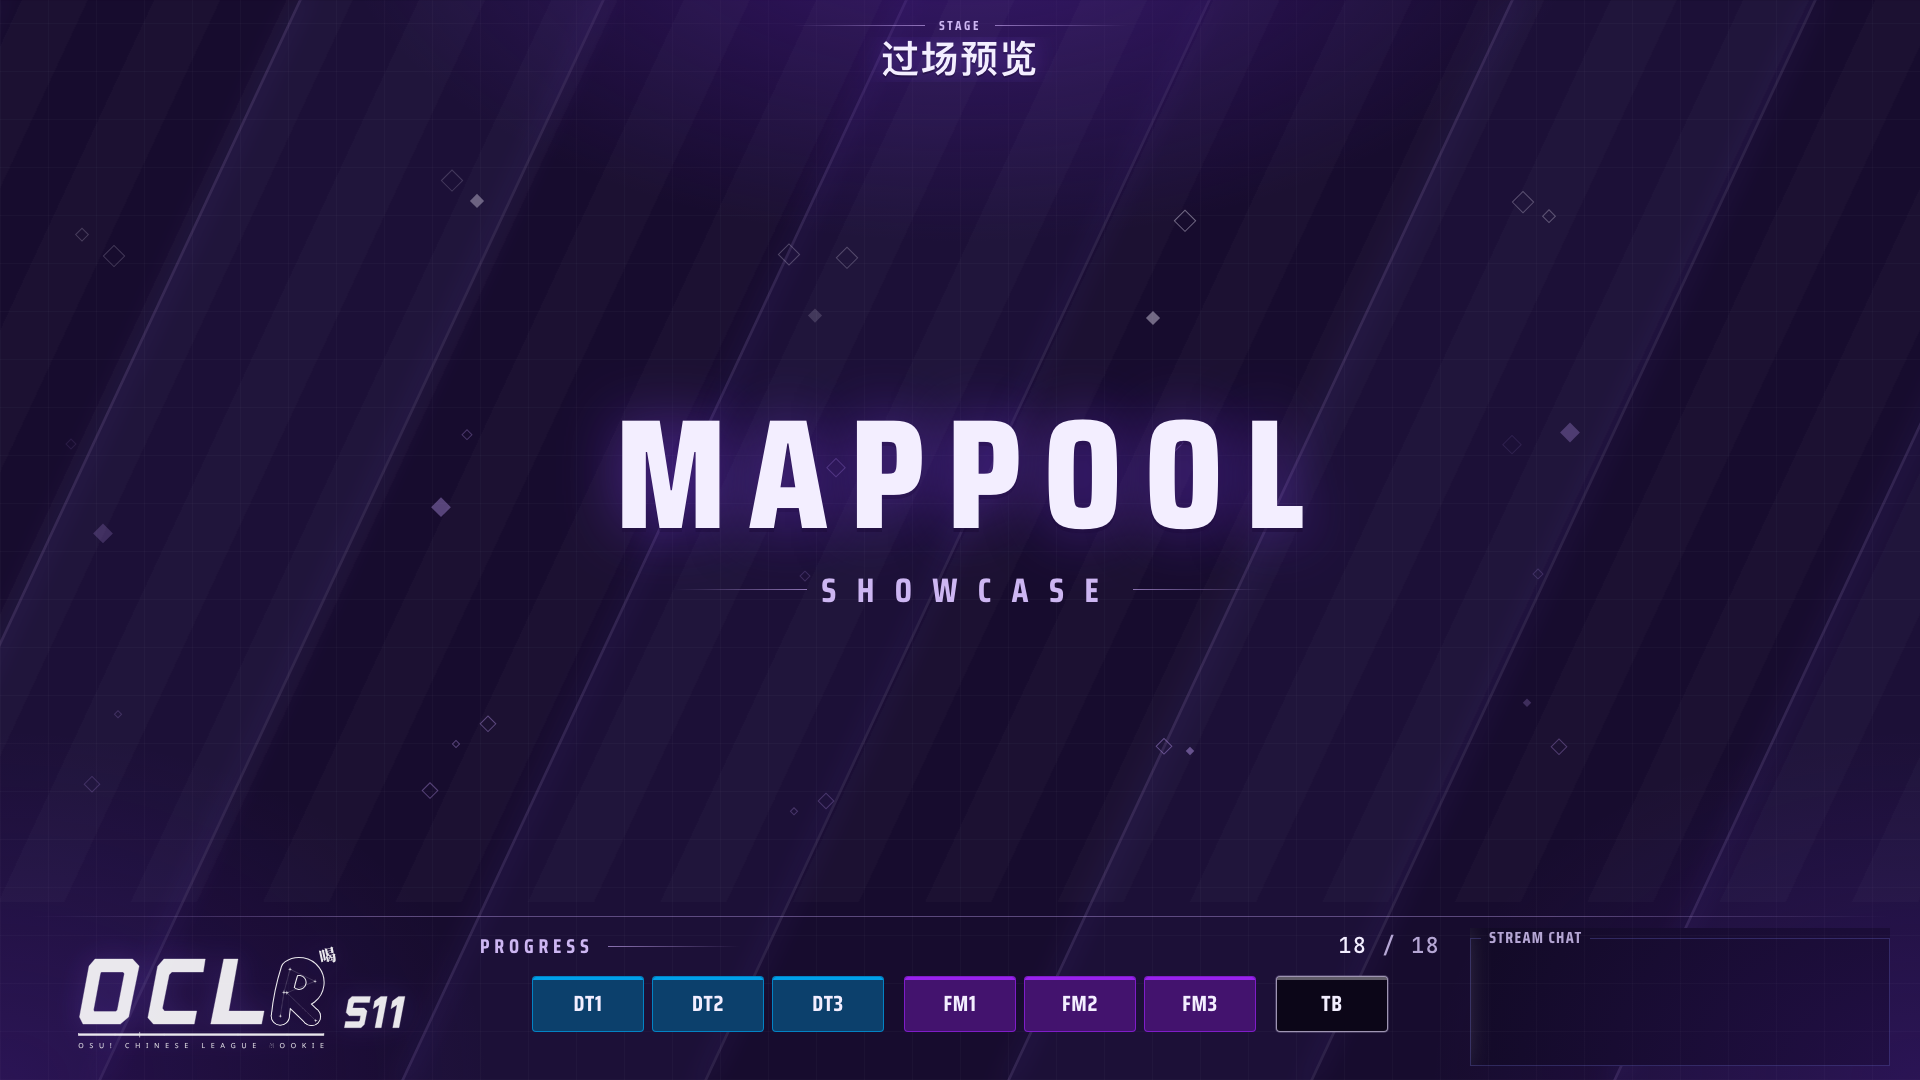
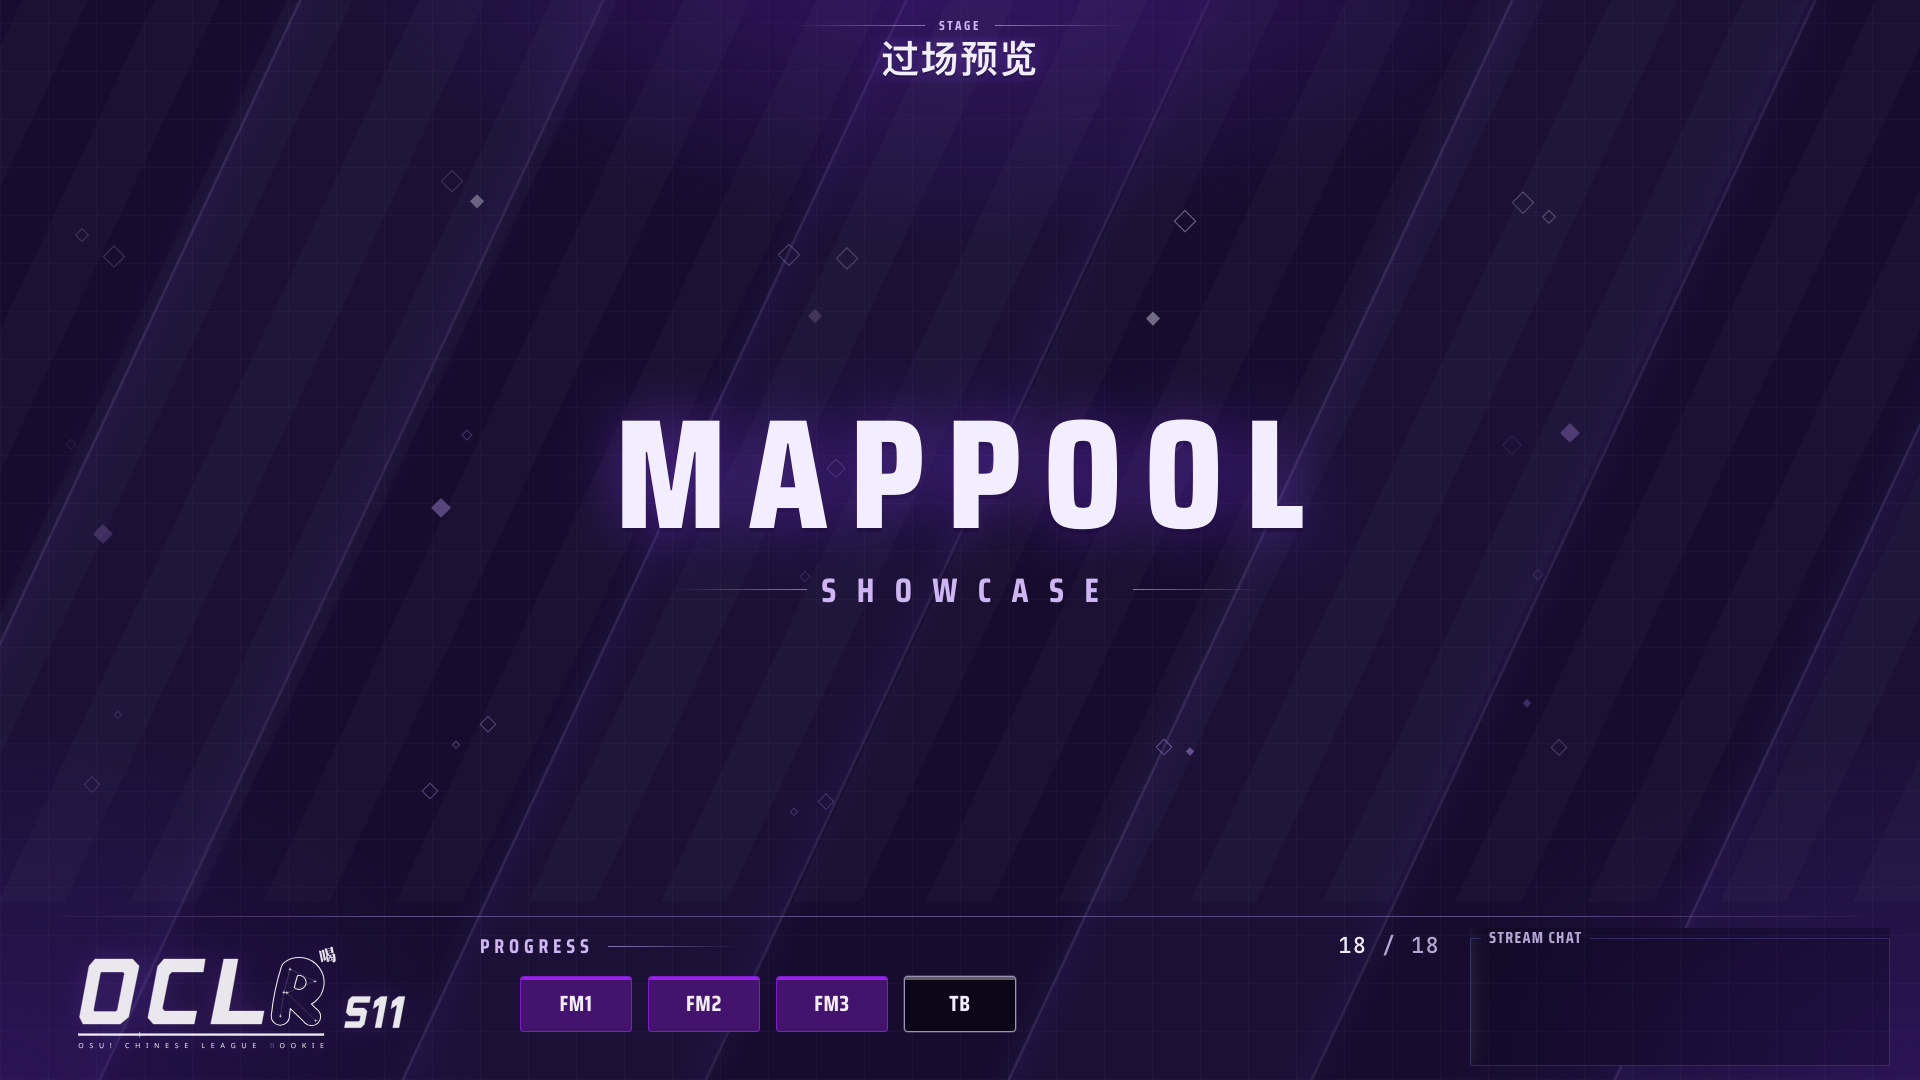
showcase: Keep current progress slot fixed in the centre

Changed region(s): [[0.25, 0.8861, 0.7188, 0.9778]]

diff --git a/ui/components/ShowcaseCover.vue b/ui/components/ShowcaseCover.vue
@@ -80,16 +80,13 @@ const diamonds = Array.from({ length: 34 }, (_, index) => {
 
 const shownSet = computed(() => new Set(props.shown));
 const progressId = computed(() => props.next?.id ?? props.currentId ?? props.shown.at(-1) ?? null);
+const progressIndex = computed(() => Math.max(0, props.pool.findIndex(entry => entry.id === progressId.value)));
 const visiblePool = computed(() => progressWindow(props.pool, progressId.value));
 const groups = computed(() => progressGroups(visiblePool.value, shownSet.value, props.next?.id ?? null));
 const doneCount = computed(() => props.pool.filter(entry => shownSet.value.has(entry.id)).length);
 // Centre footer only (x 480–1440); the existing Stream Chat stays on the right.
-const chipWidth = computed(() => {
-  const count = visiblePool.value.length;
-  if (!count) return 0;
-  const gaps = (count - 1) * 8 + (groups.value.length - 1) * 12;
-  return Math.min(112, Math.floor((960 - gaps) / count));
-});
+const chipWidth = 112;
+const progressColumn = (id: string) => props.pool.findIndex(entry => entry.id === id) - progressIndex.value + 4;
 const pad = (value: number) => String(value).padStart(2, '0');
 
 const artLoaded = ref(false);
@@ -100,7 +97,7 @@ const hasArt = computed(() => !!props.artworkUrl && !artFailed.value);
 const rootStyle = computed(() => ({
   '--cover-slow': props.seek ? 1 : props.slow,
   '--cover-seek': `${props.seek?.ms ?? 0}ms`,
-  '--chip-w': `${chipWidth.value}px`,
+  '--chip-w': `${chipWidth}px`,
 }));
 
 onMounted(() => {
@@ -113,7 +110,7 @@ onUnmounted(() => { clearTimeout(timer); media?.removeEventListener('change', on
 
 <template>
   <div class="showcase-cover" :data-stage="shownStage"
-    :class="{ 'is-instant': instantNow && !seek, 'is-reduced': reducedMotion, 'is-seeking': !!seek, 'is-compact-chips': chipWidth < 60 }"
+    :class="{ 'is-instant': instantNow && !seek, 'is-reduced': reducedMotion, 'is-seeking': !!seek }"
     :style="rootStyle" :aria-hidden="shownStage === 'hidden' ? 'true' : undefined" aria-label="换图过场">
     <div class="cover-base"></div>
     <div class="cover-bands">
@@ -156,7 +153,7 @@ onUnmounted(() => { clearTimeout(timer); media?.removeEventListener('change', on
             <ol class="cover-progress-group">
               <li v-for="chip in group.chips" :key="chip.entry.id" class="cover-chip" :data-state="chip.state" :data-mod="chip.entry.mod"
                 :data-current="chip.entry.id === progressId || undefined" :aria-current="chip.entry.id === progressId ? 'step' : undefined"
-                :style="modColorStyle(chip.entry.mod)" :title="chip.entry.label">{{ chip.entry.label }}</li>
+                :style="{ ...modColorStyle(chip.entry.mod), gridColumn: progressColumn(chip.entry.id) }" :title="chip.entry.label">{{ chip.entry.label }}</li>
             </ol>
           </li>
         </ol>

diff --git a/ui/showcase-cover.css b/ui/showcase-cover.css
@@ -124,9 +124,9 @@
 .cover-progress > header { display: flex; align-items: center; justify-content: space-between; }
 .cover-progress > header b { color: var(--muted); font: 500 22px/1 var(--mono); letter-spacing: .06em; font-variant-numeric: tabular-nums; }
 .cover-progress > header em { color: var(--ink); font-style: normal; }
-.cover-progress-track, .cover-progress-group { display: flex; margin: 0; padding: 0; list-style: none; }
-.cover-progress-track { justify-content: center; gap: 20px; }
-.cover-progress-group { gap: 8px; }
+.cover-progress-track, .cover-progress-group { margin: 0; padding: 0; list-style: none; }
+.cover-progress-track { display: grid; grid-template-columns: repeat(7, var(--chip-w)); justify-content: center; gap: 16px; }
+.cover-progress-track > li, .cover-progress-group { display: contents; }
 .cover-chip {
   position: relative; display: grid; place-items: center; width: var(--chip-w); height: 56px; overflow: hidden;
   border: 1px solid color-mix(in srgb, var(--mod-bg) 50%, #ffffff1f); border-radius: var(--radius-card);
@@ -139,7 +139,6 @@
 .cover-chip[data-state='next'] { border-color: #ffffffd9; background: var(--mod-bg); color: var(--mod-ink); box-shadow: 0 0 26px color-mix(in srgb, var(--mod-bg) 62%, transparent); transform: translateY(-5px); animation: cover-chip-stamp calc(240ms * var(--cover-slow)) ease-out both; }
 .cover-chip[data-state='next']::before { display: none; }
 .cover-chip[data-state='next'][data-mod='TB'] { box-shadow: 0 0 0 1px #ffffff8c, 0 0 26px #8b5cf666; }
-.is-compact-chips .cover-chip { font-size: 17px; letter-spacing: 0; }
 @keyframes cover-chip-stamp { from { transform: translateY(-5px) scale(1.1); } to { transform: translateY(-5px); } }
 
 /* Reduced motion: no travelling bands, a 200ms crossfade both ways. */

diff --git a/ui/showcaseCover.ts b/ui/showcaseCover.ts
@@ -35,13 +35,10 @@ export type ProgressState = 'todo' | 'done' | 'next';
 
 export interface ProgressGroup { mod: string; chips: { entry: PoolEntry; state: ProgressState }[] }
 
-// Keep three neighbours on each side; near either end use the remaining
-// space for slots on the other side instead of shrinking the context.
+// Only real neighbours: missing slots at either end stay empty in the grid.
 export function progressWindow(pool: PoolEntry[], currentId: string | null): PoolEntry[] {
-  const count = 7;
   const index = Math.max(0, pool.findIndex(entry => entry.id === currentId));
-  const start = Math.max(0, Math.min(index - 3, pool.length - count));
-  return pool.slice(start, start + count);
+  return pool.slice(Math.max(0, index - 3), index + 4);
 }
 
 // Consecutive slots of one mod form a group; groups get a wider gap.

diff --git a/docs/verification/showcase-cover/footer/README.md b/docs/verification/showcase-cover/footer/README.md
@@ -2,7 +2,7 @@
 
 日期：2026-11-16。按用户截图后的最新要求调整。
 
-进度条限制在底栏中段 x=480–1440。以当前 Slot 为中心显示前后各 3 张，最多 7 张；首尾时用另一侧补足，完整池不足 7 张时全部显示。普通客户端当前匹配与下一张均可定位窗口；同图品牌待机仍对应当前 Slot。已演示计数继续按完整图池计算。
+进度条限制在底栏中段 x=480–1440。当前 Slot 固定在画布中线 x=960，左右各保留 3 个等宽位置，最多 7 张；首尾缺少的邻图留空，不再从另一侧补足。例如 NM1 居中时，左边留空，右边只显示 NM2、NM3、NM4。普通客户端当前匹配与下一张均可定位窗口；同图品牌待机仍对应当前 Slot。已演示计数继续按完整图池计算。
 
 右侧 Stream Chat 保持 (1470,928) 420×138。整个过场层在此位置留透明孔，直接显示底层原 ChatBox 与 OBS 弹幕来源，不复制、重建或重载聊天。透明孔在进入、保持、揭开及减少动态效果下保持。
 
@@ -15,10 +15,10 @@
 ## 检查
 
 - `npm run build`（含类型检查）、`git diff --check` 通过。
-- 在现有 Chrome 采集器上检查 13／18／24 张池的首、中、尾共 9 种状态：可见 Slot 均为 7，中间当前位于第 4 张，首尾正确补足；进度最右为 x=1440，聊天最左为 x=1470，无重叠。
+- 在现有 Chrome 采集器上检查 13／18／24 张池的首、中、尾共 9 种状态：当前 Slot 的中心均为 x=960，中间显示 7 张，首尾只显示当前与单侧 3 张（共 4 张），缺少侧留空；进度最右为 x=1440，聊天最左为 x=1470，无重叠。
 - 冻结底层装饰后，遮挡前后原 Stream Chat 区域变化通道数均为 0；原框内容、标题和坐标完全保留。
 - 正式 `/showcase?clean=1&layer=cover` 截图：OBS 弹幕内容区的非透明像素数为 0，1600×800 回放区的非不透明像素数为 0。保留弹幕同时仍完全遮住回放。
-- 原过场视觉回归通过：8 种保持态（包括减少动态效果）的回放区条纹露出均为 0；正常换图、同图重播、提前打开 rep 共 3 个模拟流程通过；无页面运行时异常。
+- 上一轮过场视觉回归通过（本轮不改斜幕与透明孔）：8 种保持态（包括减少动态效果）的回放区条纹露出均为 0；正常换图、同图重播、提前打开 rep 共 3 个模拟流程通过；无页面运行时异常。
 
 [窗口与透明孔结果](browser-checks.json) · [过场动画结果](animation-checks.json)
 

diff --git a/docs/windows-portable.md b/docs/windows-portable.md
@@ -48,7 +48,7 @@
 
 自动过场只在已配置的 Showcase 场景中显隐遮罩。在节目中切到休息或广告时会取消计时并预备遮罩。它通过 tosu 的 [StreamCompanion 状态](https://raw.githubusercontent.com/tosuapp/tosu/master/packages/tosu/src/api/utils/scStatus.ts) 与 [原生 v2 状态](https://raw.githubusercontent.com/tosuapp/tosu/master/packages/tosu/src/api/utils/buildResultV2.ts) 核对普通客户端。打开文件前应等遮挡确认，因为游戏变化后的采样无法预先挡住同一帧。
 
-过场底栏只显示当前 Slot 前后各 3 张，首尾自动补足，右侧 Stream Chat 全程保留。图池进度只记录本次服务运行期间确认结束的回放，同图重播不重复增加；刷新网页保留，修改演示图池或重启服务后重新统计。没有封面时显示 Slot 色块。过场使用现有谱面卡的封面来源，不控制音频。
+过场底栏将当前 Slot 固定居中，只显示前后各 3 张；首尾缺少的位置留空，右侧 Stream Chat 全程保留。图池进度只记录本次服务运行期间确认结束的回放，同图重播不重复增加；刷新网页保留，修改演示图池或重启服务后重新统计。没有封面时显示 Slot 色块。过场使用现有谱面卡的封面来源，不控制音频。
 
 ### OBS 跟随 EX
 
